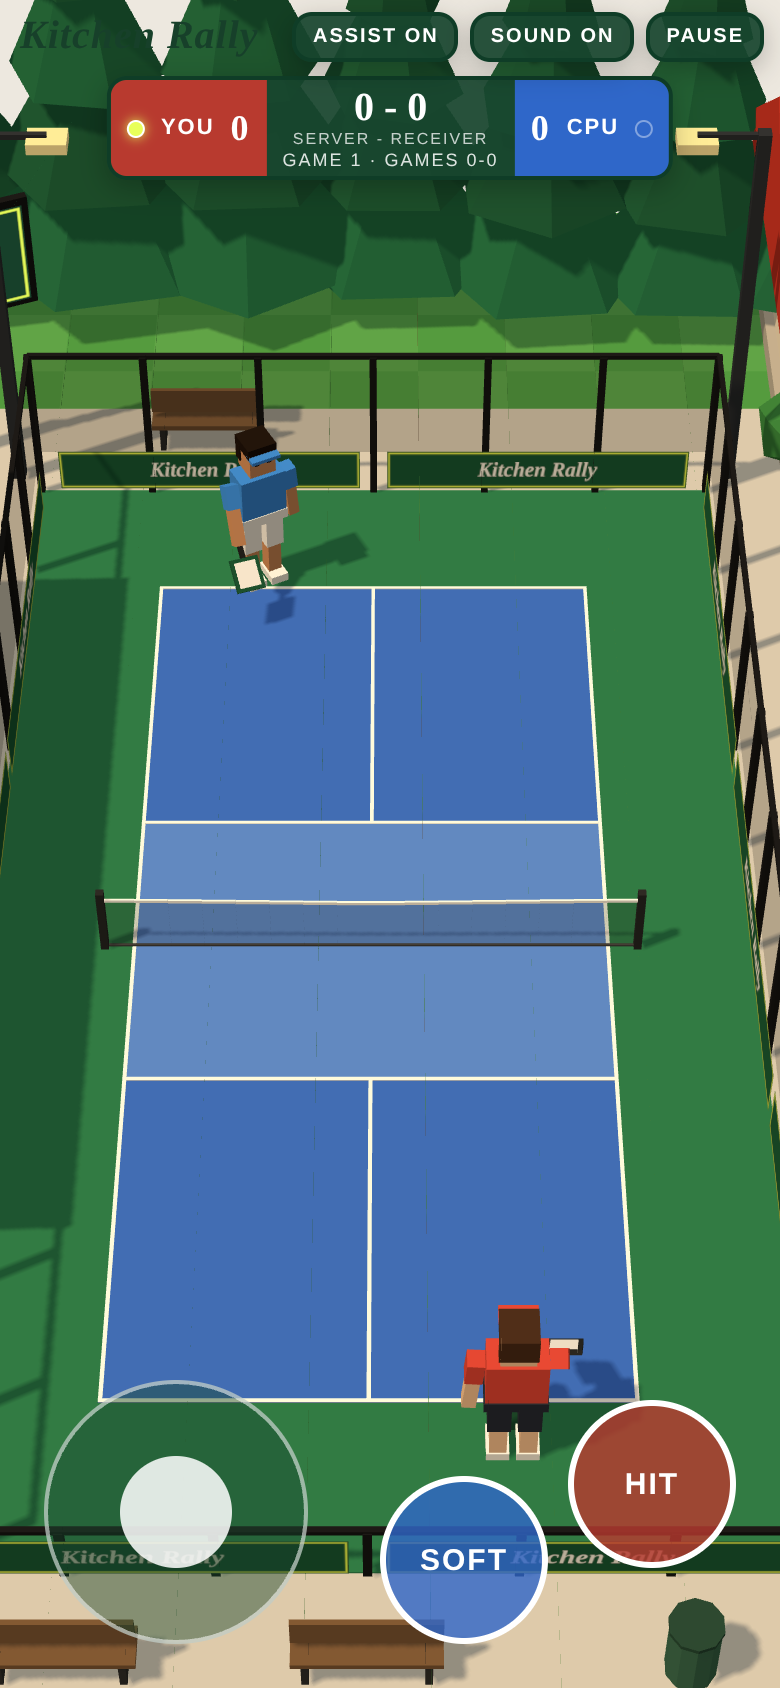
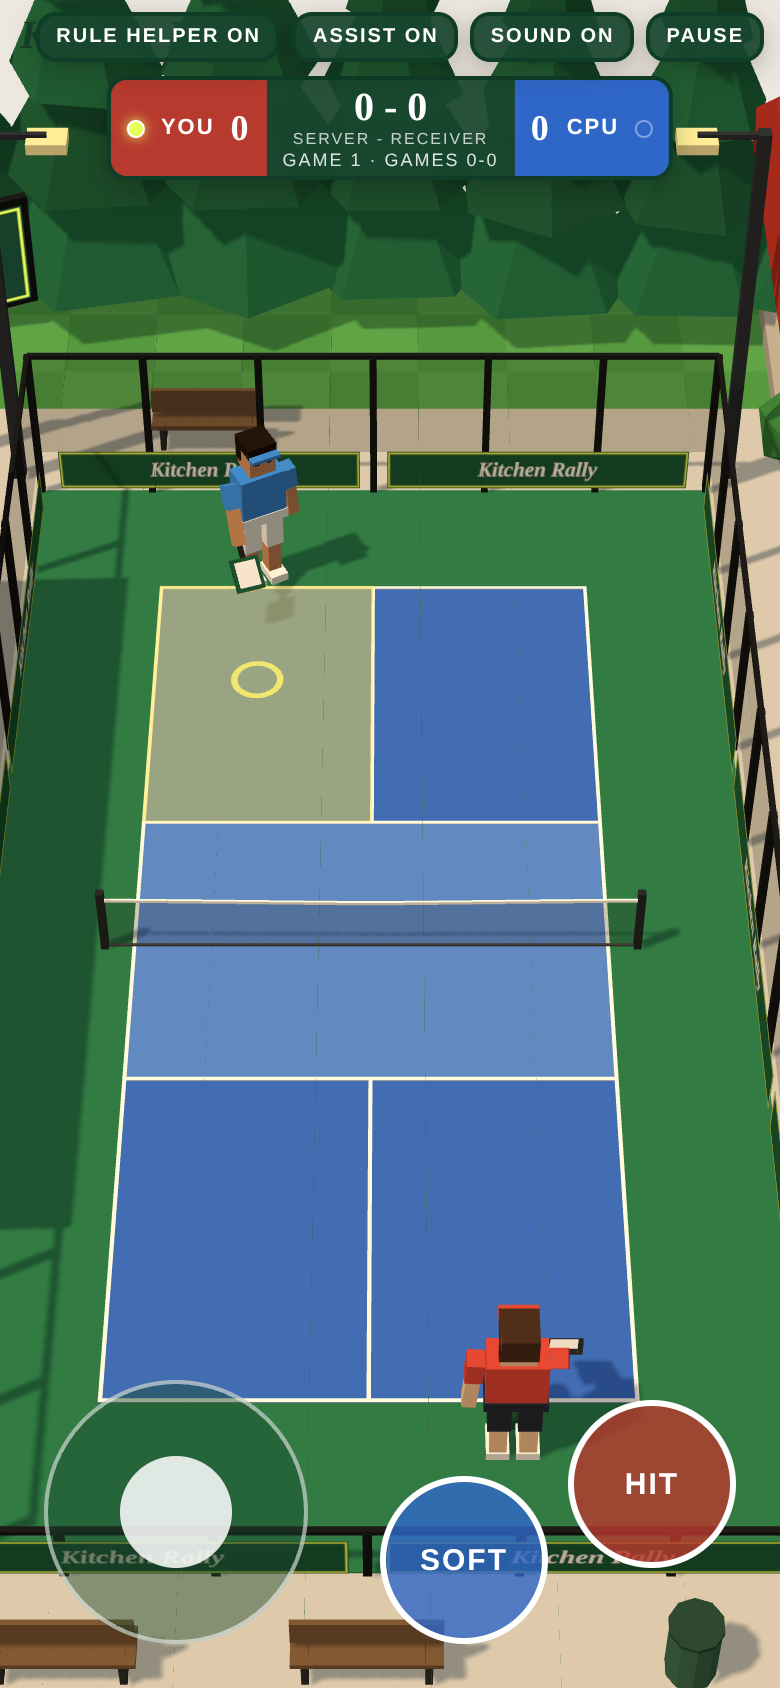
Fair rule faults: auto-swing/buffer never fault, rule helper, bounce/kitchen cues, fault reasons, safer serve and aim

Changed region(s): [[0.1846, 0.3389, 0.4923, 0.4929], [0.0308, 0.0, 0.3385, 0.0308]]

diff --git a/index.html b/index.html
@@ -26,8 +26,10 @@
   #games { font-size:clamp(9px,1.1vw,11px); letter-spacing:1px; opacity:.85; margin-top:1px; }
   #callout { position:fixed; left:50%; top:34%; transform:translate(-50%,-50%); text-align:center; pointer-events:none; opacity:0; }
   #callout .big { font-family:Georgia,serif; font-weight:700; font-style:italic; font-size:clamp(34px,8vw,84px); color:#fff; text-shadow:0 3px 0 #17402a,0 0 18px rgba(0,0,0,.35); letter-spacing:2px; }
-  #callout .sub { margin-top:4px; display:inline-block; padding:3px 12px; background:rgba(24,70,46,.9); border-radius:6px; font-size:clamp(11px,1.6vw,16px); letter-spacing:2px; text-transform:uppercase; }
-  #callout.show { animation:pop 1.5s ease-out forwards; }
+  #callout .sub { max-width:92vw; margin-top:4px; display:inline-block; padding:3px 12px; background:rgba(24,70,46,.9); border-radius:6px; font-size:clamp(11px,1.6vw,16px); letter-spacing:2px; text-transform:uppercase; }
+  #callout.show { animation:pop 1.9s ease-out forwards; }
+  #cue { position:fixed; left:0; top:0; transform:translate(-50%,-100%); padding:4px 12px; border-radius:8px; background:rgba(214,40,40,.94); color:#fff; font-weight:800; font-size:13px; letter-spacing:2px; pointer-events:none; display:none; white-space:nowrap; box-shadow:0 2px 8px rgba(0,0,0,.35); }
+  #cue.flash { background:#ff1f1f; font-size:16px; }
   @keyframes pop { 0%{opacity:0;transform:translate(-50%,-40%) scale(.6)} 12%{opacity:1;transform:translate(-50%,-50%) scale(1.08)} 22%{transform:translate(-50%,-50%) scale(1)} 80%{opacity:1} 100%{opacity:0;transform:translate(-50%,-56%) scale(1)} }
   #topRight { position:fixed; right:12px; top:12px; display:flex; gap:8px; }
   .chip { padding:7px 12px; font-size:12px; letter-spacing:1px; color:#fff; cursor:pointer; pointer-events:auto; font-weight:700; }
@@ -78,13 +80,15 @@
 </div>
 
 <div id="topRight">
+  <div class="chip panel" id="btnHelper">RULE HELPER ON</div>
   <div class="chip panel" id="btnAssist">ASSIST ON</div>
   <div class="chip panel" id="btnMute">SOUND ON</div>
   <div class="chip panel" id="btnPause">PAUSE</div>
 </div>
 
-<div id="hint" class="panel"><b>WASD / Arrows</b> move &nbsp; <b>J / Space</b> drive &nbsp; <b>K</b> dink / lob &nbsp; <b>Enter</b> pause &nbsp; <b>M</b> mute &nbsp; <b>T</b> assist &nbsp; <b>Wheel / pinch</b> zoom</div>
+<div id="hint" class="panel"><b>WASD / Arrows</b> move &nbsp; <b>J / Space</b> drive &nbsp; <b>K</b> dink / lob &nbsp; <b>Enter</b> pause &nbsp; <b>M</b> mute &nbsp; <b>T</b> assist &nbsp; <b>R</b> rule helper &nbsp; <b>Wheel / pinch</b> zoom</div>
 
+<div id="cue"></div>
 <div id="callout"><div class="big" id="coBig"></div><div class="sub" id="coSub"></div></div>
 
 <div id="scrTitle" class="screen"><div class="card panel">
@@ -171,8 +175,8 @@ class Rules {
   onHit(p, kitchen) {
     if (this.phase !== 'rally' || p === this.lastHitter) return null;
     const volley = this.bounces === 0;
-    if (volley && this.hits <= 2) return this.fault(p, 'FAULT', 'Two-bounce rule');
-    if (volley && kitchen) return this.fault(p, 'KITCHEN!', 'Volley in the kitchen');
+    if (volley && this.hits <= 2) return this.fault(p, 'FAULT', this.hits === 1 ? 'Two-bounce rule: let the serve bounce' : 'Two-bounce rule: let the return bounce');
+    if (volley && kitchen) return this.fault(p, 'KITCHEN!', 'Kitchen volley: no volleys inside the kitchen line');
     this.hits++; this.lastHitter = p; this.bounces = 0; this.netTouched = false;
     this.watch[0] = this.watch[1] = false;
     if (volley) this.watch[p] = true;
@@ -185,20 +189,20 @@ class Rules {
     this.bounces++; this.watch[0] = this.watch[1] = false;
     const side = Rules.sideOf(z);
     if (this.bounces === 1) {
-      if (Math.abs(x) > hw || Math.abs(z) > hl) return this.fault(this.lastHitter, 'OUT', 'Ball landed out');
-      if (side === this.lastHitter) return this.netTouched ? this.fault(this.lastHitter, 'NET', 'Ball hit the net')
-                                                           : this.fault(this.lastHitter, 'FAULT', 'Did not clear the net');
+      if (Math.abs(x) > hw || Math.abs(z) > hl) return this.fault(this.lastHitter, 'OUT', 'Out: the ball landed outside the court');
+      if (side === this.lastHitter) return this.netTouched ? this.fault(this.lastHitter, 'NET', 'Net: the ball hit the net')
+                                                           : this.fault(this.lastHitter, 'FAULT', 'Net: the ball did not clear the net');
       if (this.hits === 1) {
-        if (Math.abs(z) <= c.kitchen) return this.fault(this.lastHitter, 'FAULT', 'Serve landed in the kitchen');
-        if (x * this.receiveCourtSign() < 0) return this.fault(this.lastHitter, 'FAULT', 'Serve landed in the wrong court');
+        if (Math.abs(z) <= c.kitchen) return this.fault(this.lastHitter, 'FAULT', 'Serve in kitchen: the serve must land past the kitchen');
+        if (x * this.receiveCourtSign() < 0) return this.fault(this.lastHitter, 'FAULT', 'Serve landed in the wrong service box');
       }
       return null;
     }
-    return this.fault(1 - this.lastHitter, 'FAULT', 'Double bounce');
+    return this.fault(1 - this.lastHitter, 'FAULT', 'Double bounce: the ball bounced twice');
   }
   // stepping into the kitchen after a volley, before the ball bounces
   momentum(p, kitchen) {
-    if (this.phase === 'rally' && this.watch[p] && kitchen) return this.fault(p, 'KITCHEN!', 'Stepped in after a volley');
+    if (this.phase === 'rally' && this.watch[p] && kitchen) return this.fault(p, 'KITCHEN!', 'Kitchen: do not step in after a volley');
     return null;
   }
   fault(faulter, label, detail) {
@@ -359,6 +363,7 @@ class Input {
       else if (e.code === 'Enter') this.fire('enter');
       else if (e.code === 'KeyM') this.fire('mute');
       else if (e.code === 'KeyT') this.fire('assist');
+      else if (e.code === 'KeyR') this.fire('helper');
       else if (e.code === 'KeyQ') this.fire('quit');
       else if (e.code === 'Escape') this.fire('pause');
     });
@@ -938,8 +943,17 @@ class Game {
     const rm = new THREE.MeshBasicMaterial({ color: 0xfff36b, transparent: true, opacity: 0.85, depthWrite: false, polygonOffset: true, polygonOffsetFactor: -4, polygonOffsetUnits: -4, side: THREE.DoubleSide });
     this.ring = new THREE.Mesh(new THREE.RingGeometry(0.3, 0.4, 28).rotateX(-Math.PI / 2), rm); this.ring.renderOrder = 6; this.ring.visible = false; this.scene.add(this.ring);
 
+    const mkPlane = (w, d, color, op) => { const m = new THREE.Mesh(new THREE.PlaneGeometry(w, d).rotateX(-Math.PI / 2), new THREE.MeshBasicMaterial({ color, transparent: true, opacity: op, depthWrite: false, polygonOffset: true, polygonOffsetFactor: -3, polygonOffsetUnits: -3 })); m.renderOrder = 4; m.visible = false; this.scene.add(m); return m; };
+    const CT = CONFIG.court;
+    this.kitchenHi = mkPlane(CT.width, CT.kitchen, 0xff3b30, 0.35); this.kitchenHi.position.set(0, 0.03, CT.kitchen / 2);
+    this.serveHi = mkPlane(CT.width / 2, CT.length / 2 - CT.kitchen, 0xffe14a, 0.4);
+    const brm = new THREE.MeshBasicMaterial({ color: 0xff2020, transparent: true, opacity: 0.9, depthWrite: false, polygonOffset: true, polygonOffsetFactor: -5, polygonOffsetUnits: -5, side: THREE.DoubleSide });
+    this.bounceRing = new THREE.Mesh(new THREE.RingGeometry(0.3, 0.42, 28).rotateX(-Math.PI / 2), brm); this.bounceRing.renderOrder = 7; this.bounceRing.visible = false; this.scene.add(this.bounceRing);
+    this.cueEl = $('cue'); this.cueFlash = 0; this.pv = new THREE.Vector3();
+    this.helper = true; this.strikeSrc = 'fresh'; // rule helper: blocks an illegal manual volley instead of faulting (R toggles)
+
     this.diff = 'normal'; this.state = 'title'; this.prev = 'serve'; this.time = 0; this.stateT = 0; this.acc = 0; this.cheerT = 0; this.cheerAt = -1;
-    this.buf = { t: 0, age: 0, kind: 'hit', swung: false }; this.serve = { pending: false, t: 0, soft: false };
+    this.buf = { t: 0, age: 0, kind: 'hit', swung: false, fresh: false, warned: false }; this.serve = { pending: false, t: 0, soft: false };
     this.callouts = []; this.pending = null; this.startPos = [{ x: 0, z: 0 }, { x: 0, z: 0 }];
     this.tw = [0, 0]; this.sol = {}; this.tmpSim = {}; this.tmpSol = {};
     this.ctl = [null, new AIController(this, this.players[1], this.diff)];
@@ -971,10 +985,12 @@ class Game {
     $('btnAgain').addEventListener('click', (e) => { e.stopPropagation(); this.onAction('enter'); });
     $('btnMute').addEventListener('click', () => this.onAction('mute'));
     $('btnAssist').addEventListener('click', () => this.onAction('assist'));
+    $('btnHelper').addEventListener('click', () => this.onAction('helper'));
     $('btnPause').addEventListener('click', () => this.onAction('pause'));
   }
+  setHelper(on) { this.helper = on; $('btnHelper').textContent = on ? 'RULE HELPER ON' : 'RULE HELPER OFF'; }
   setDiff(d) {
-    this.diff = d; this.ctl[1].setDiff(d); if (this.ctl[0]) this.ctl[0].setDiff('hard');
+    this.diff = d; this.setHelper(d !== 'hard'); this.ctl[1].setDiff(d); if (this.ctl[0]) this.ctl[0].setDiff('hard');
     for (const b of document.querySelectorAll('#diffs .btn')) b.classList.toggle('sel', b.dataset.d === d);
     this.audio.sfx('blip');
   }
@@ -989,6 +1005,7 @@ class Game {
     switch (n) {
       case 'touch': document.body.classList.add('touch'); break;
       case 'mute': this.audio.setMuted(!this.audio.muted); $('btnMute').textContent = this.audio.muted ? 'SOUND OFF' : 'SOUND ON'; this.audio.sfx('blip'); break;
+      case 'helper': this.setHelper(!this.helper); this.audio.sfx('blip'); break;
       case 'assist': this.assist = !this.assist; $('btnAssist').textContent = this.assist ? 'ASSIST ON' : 'ASSIST OFF'; this.audio.sfx('blip'); break;
       case 'left': case 'right':
         if (S === 'title') { const L = ['easy', 'normal', 'hard'], i = L.indexOf(this.diff); this.setDiff(L[clamp(i + (n === 'left' ? -1 : 1), 0, 2)]); }
@@ -1005,7 +1022,7 @@ class Game {
         if (S === 'title' || S === 'howto' || S === 'end') { this.onAction('enter'); break; }
         if (S === 'paused' || this.ctl[0]) break;
         if (S === 'serve') { if (this.rules.server === 0 && !this.serve.pending) this.beginServe(this.players[0], n === 'soft'); }
-        else if (S === 'rally') { this.buf.t = CONFIG.input.bufferMs / 1000; this.buf.age = 0; this.buf.kind = n; this.buf.swung = false; }
+        else if (S === 'rally') { this.buf.t = CONFIG.input.bufferMs / 1000; this.buf.age = 0; this.buf.kind = n; this.buf.swung = false; this.buf.warned = false; this.buf.fresh = this.canHit(this.players[0]); }
         break;
     }
   }
@@ -1044,14 +1061,18 @@ class Game {
     let spec;
     if (this.ctl[p.id]) spec = this.ctl[p.id].serveSpec();
     else {
-      this.input.world(this.tw); const up = -this.tw[1], s = r.receiveCourtSign();
-      spec = { type: this.serve.soft ? 'servesoft' : 'serve', tx: s * clamp(s * (s * 1.6 + 1.1 * this.tw[0]), 0.3, 2.85), tz: lerp(2.5, 6.3, 0.5 + 0.5 * up), sd0: 0.16 };
+      spec = this.humanServeSpec();
     }
     p.hitCD = CONFIG.player.hitCooldown;
     r.onServe(); b.live = true; this.shoot(p, spec, spec.sd0 * 0.7);
     this.setState('rally'); this.acc = 0;
     this.audio.sfx('pock');
     const o = this.ctl[1 - p.id]; if (o) o.onOpponentHit();
+  }
+  // human serve aim: safely past the kitchen by default (centre of the service box), direction keys nudge it
+  humanServeSpec(soft = this.serve.soft) {
+    this.input.world(this.tw); const up = -this.tw[1], s = this.rules.receiveCourtSign();
+    return { type: soft ? 'servesoft' : 'serve', tx: s * clamp(1.6 + 1.1 * s * this.tw[0], 0.7, 2.5), tz: lerp(3.6, 6.0, 0.5 + 0.5 * up), sd0: 0.16 };
   }
   canHit(p) {
     const b = this.ball, P = CONFIG.player;
@@ -1076,10 +1097,11 @@ class Game {
     const t = clamp(((p.z - b.z) * p.sz) / P.reach, -1, 1); // + when the ball is ahead of the player (toward the net) = early contact
     const side = (b.x - p.x) >= 0 ? 1 : -1;
     let type, tz;
-    if (kind === 'hit') { type = 'drive'; tz = lerp(3.0, 6.4, d); }
+    if (kind === 'hit') { type = 'drive'; tz = lerp(3.0, 5.9, d); }
     else if (Math.abs(p.z) <= S.dinkMaxZ) { type = 'dink'; tz = lerp(0.7, 1.95, d); }
-    else { type = 'lob'; tz = lerp(4.8, 6.4, d); }
-    return { type, tx: dx * 2.0 + t * S.timingSkew * side, tz, sd0: 0.2 };
+    else { type = 'lob'; tz = lerp(4.8, 5.9, d); }
+    // aim stays inside the sidelines even with full direction + early contact, so auto-aim never throws the ball out by itself
+    return { type, tx: clamp(dx * 2.0 + t * S.timingSkew * side, -2.6, 2.6), tz, sd0: 0.2 };
   }
   // compute and apply the launch velocity for a shot (auto-aim). sd = random error std dev in metres
   shoot(p, spec, sd) {
@@ -1091,9 +1113,9 @@ class Game {
     if (spec.arc && (spec.type === 'drive' || spec.type === 'serve')) T *= 1 + spec.arc; // extra loft so incoming balls stay returnable
     T = Math.max(T, 0.5);
     let sol = this.sol;
-    for (let i = 0; i < 9; i++) {
+    for (let i = 0; i < 16; i++) {
       solveShot(CONFIG, b.x, b.y, b.z, tx, tzw, T, sol, this.tmpSol);
-      if (sol.crossed && sol.netY >= C.netSide + S.netClear) break; T *= 1.1;
+      if (sol.crossed && sol.netY >= C.netSide + S.netClear) break; T *= 1.12;
     }
     b.vx = sol.vx; b.vy = sol.vy; b.vz = sol.vz;
     simFlight(CONFIG, b.x, b.y, b.z, b.vx, b.vy, b.vz, this.tmpSim);
@@ -1113,7 +1135,7 @@ class Game {
   handleFault(ev) {
     this.ring.visible = false; this.audio.sfx('fault');
     this.callouts.length = 0;
-    this.queueCallout(ev.label, ev.detail, 0);
+    this.queueCallout(ev.label, (ev.faulter === 0 ? 'You: ' : 'CPU: ') + ev.detail, 0);
     let d = 1.15;
     const nm = (i) => (i === 0 ? 'YOU' : 'CPU');
     if (ev.sideOut) { this.queueCallout('SIDE OUT', nm(this.rules.server) + ' to serve', d); d += 1.0; }
@@ -1138,6 +1160,8 @@ class Game {
     const P = CONFIG.player, r = this.rules, hl = CONFIG.court.length / 2;
     p.xMin = -P.boundX; p.xMax = P.boundX;
     if (p.sz > 0) { p.zMin = P.netGap; p.zMax = P.boundZ; } else { p.zMin = -P.boundZ; p.zMax = -P.netGap; }
+    // right after a volley near the kitchen, do not let momentum or assist carry the player into it (auto volleys and rule helper)
+    if (p.id === 0 && !this.ctl[0] && r.phase === 'rally' && r.watch[0] && (this.helper || this.strikeSrc !== 'fresh')) p.zMin = Math.max(p.zMin, CONFIG.court.kitchen + P.footRadius + 0.03);
     if (this.state === 'serve' && r.server === p.id) {
       const s = r.serveCourtSign(); // stay inside the serving court, behind the baseline
       if (s > 0) { p.xMin = 0.2; p.xMax = 3.0; } else { p.xMin = -3.0; p.xMax = -0.2; }
@@ -1174,13 +1198,15 @@ class Game {
     if (this.state === 'rally') {
       if (!this.ctl[0] && this.buf.t > 0) {
         this.buf.t -= dt; this.buf.age += dt;
-        // forgiving buffer: a press made well before the ball is in reach waits for a legal contact (after the bounce);
-        // a deliberate press right at contact still fires, so real two-bounce / kitchen faults can happen
-        if (this.canHit(h) && (this.humanLegal(h) || this.buf.age < CONFIG.input.illegalGraceMs / 1000)) this.strike(h, this.humanSpec(this.buf.kind));
-        else if (this.canHit(h)) { /* wait for legal contact */ }
-        else if (!this.buf.swung && h.swingT < 0 && h.hitCD <= 0) { h.startSwing((this.ball.x - h.x) < 0 ? 'bh' : 'fh', 0); h.hitCD = 0.18; this.buf.swung = true; }
+        // a buffered press never commits a rule fault by itself: it waits for a legal contact (after the bounce / outside the kitchen).
+        // only an explicit press made with the ball already in reach (fresh) can still fault, unless the rule helper blocks it
+        if (this.canHit(h)) {
+          if (this.humanLegal(h)) { this.strikeSrc = this.buf.age > 0.0801 ? 'buffer' : 'fresh'; this.strike(h, this.humanSpec(this.buf.kind)); }
+          else if (!this.helper && this.buf.age < CONFIG.input.illegalGraceMs / 1000) { this.strikeSrc = 'fresh'; this.strike(h, this.humanSpec(this.buf.kind)); }
+          else if (!this.buf.warned) { this.buf.warned = true; this.cueFlash = 0.6; }
+        } else if (!this.buf.swung && h.swingT < 0 && h.hitCD <= 0) { h.startSwing((this.ball.x - h.x) < 0 ? 'bh' : 'fh', 0); h.hitCD = 0.18; this.buf.swung = true; }
       } else if (!this.ctl[0] && (this.input.held.hit || this.input.held.soft) && this.canHit(h) && this.humanLegal(h)) {
-        this.strike(h, this.humanSpec(this.input.held.hit ? 'hit' : 'soft')); // hit held: auto-swing when a legal ball enters reach
+        this.strikeSrc = 'held'; this.strike(h, this.humanSpec(this.input.held.hit ? 'hit' : 'soft')); // hit held: auto-swing when a legal ball enters reach
       }
     }
     if (this.state === 'rally' || this.state === 'pointover') {
@@ -1206,8 +1232,38 @@ class Game {
     this.ballMesh.position.set(b.x, b.y + 0.11, b.z); this.ballMesh.rotation.x += dt * 5; this.ballMesh.rotation.z += dt * 3;
     const s = 0.17 + 0.05 * Math.min(h, 3); this.blob.position.set(b.x, 0.03, b.z); this.blob.scale.set(s, 1, s); this.blob.material.opacity = 0.55 / (1 + 0.25 * h);
     if (this.ring.visible) { const k = 1 + 0.12 * Math.sin(this.time * 9); this.ring.scale.set(k, 1, k); }
+    this.syncCues(dt);
     const lookX = b.x;
     for (const p of this.players) p.animate(dt, lookX);
+  }
+  syncCues(dt) {
+    const r = this.rules, h = this.players[0], b = this.ball, C = CONFIG.court, S = this.state, human = !this.ctl[0];
+    const rally = S === 'rally' && r.phase === 'rally' && human;
+    const incoming = rally && r.lastHitter === 1;
+    const needB = incoming && r.bounces === 0 && r.hits <= 2;
+    const inK = r.inKitchen(h.x, h.z);
+    const kcue = rally && r.bounces === 0 && ((incoming && inK) || (r.watch[0] && h.z < C.kitchen + CONFIG.player.footRadius + 0.45));
+    this.bounceRing.visible = needB;
+    if (needB) { const k = 1 + 0.15 * Math.sin(this.time * 10); this.bounceRing.position.set(b.x, 0.04, b.z); this.bounceRing.scale.set(k, 1, k); }
+    this.kitchenHi.visible = kcue; if (kcue) this.kitchenHi.material.opacity = 0.3 + 0.15 * Math.sin(this.time * 9);
+    // serve target: highlight the service box and show the aim point while the human serves
+    const sv = S === 'serve' && r.server === 0 && human;
+    this.serveHi.visible = sv;
+    if (sv) {
+      const s = r.receiveCourtSign(), sp = this.humanServeSpec(this.serve.soft || this.input.held.soft);
+      this.serveHi.position.set(s * C.width / 4, 0.03, -(C.kitchen + (C.length / 2 - C.kitchen) / 2));
+      this.serveHi.material.opacity = 0.4 + 0.12 * Math.sin(this.time * 6);
+      if (!this.serve.pending) { this.ring.position.set(sp.tx, 0.035, -sp.tz); this.ring.visible = true; }
+    }
+    const el = this.cueEl; let txt = '', tgt = null;
+    if (needB) { txt = 'LET IT BOUNCE'; this.pv.set(b.x, b.y + 0.5, b.z); tgt = this.pv; }
+    else if (kcue) { txt = 'NO VOLLEY IN THE KITCHEN'; this.pv.set(h.x, 2.5, h.z); tgt = this.pv; }
+    if (this.cueFlash > 0) this.cueFlash -= dt;
+    if (txt && this.state !== 'paused') {
+      this.pv.project(this.rig.cam);
+      el.style.display = 'block'; el.textContent = txt; el.classList.toggle('flash', this.cueFlash > 0);
+      el.style.left = Math.round((this.pv.x * 0.5 + 0.5) * innerWidth) + 'px'; el.style.top = Math.round((-this.pv.y * 0.5 + 0.5) * innerHeight) + 'px';
+    } else el.style.display = 'none';
   }
   render() { this.renderer.render(this.scene, this.rig.cam); }
   // ------------------------------------------------ test helpers (headless): advance game time without rendering

diff --git a/tests/rules.test.js b/tests/rules.test.js
@@ -61,4 +61,10 @@ const C=CONFIG.court;
   const b3=new Ball(CONFIG); b3.x=0;b3.y=1.2;b3.z=0.5;b3.vx=0;b3.vy=0;b3.vz=-5; let bn=0; for(let i=0;i<300;i++){b3.step(1/120); if(b3.bounceEv)bn++;}
   t('ball bounces with restitution (bounce events happen)',bn>=1);
   const b4=new Ball(CONFIG); b4.y=2;b4.x=1;b4.z=3; let ys=[]; for(let i=0;i<400;i++){b4.step(1/120); if(b4.bounceEv)ys.push(b4.vy);} t('restitution ~0.6',ys.length>1&&ys[0]>0&&true,JSON.stringify(ys)); }
+  // fault reasons shown to the player
+  { const r=new Rules(CONFIG); r.onServe(); let ev=r.onHit(1,false); t('volleying the serve: reason says let the serve bounce', ev&&/let the serve bounce/.test(ev.detail),ev&&ev.detail);
+    const r2=new Rules(CONFIG); r2.onServe(); r2.onBounce(-1,-4); r2.onHit(1,false); r2.bounces=0; ev=r2.onHit(0,false); t('server volleying the return (3rd shot): let the return bounce', ev&&/let the return bounce/.test(ev.detail),ev&&ev.detail);
+    const r3=new Rules(CONFIG); r3.onServe(); r3.onBounce(-1,-4); r3.onHit(1,false); r3.onBounce(1,3); r3.onHit(0,false); ev=r3.onHit(1,true); t('kitchen volley reason',ev&&/Kitchen volley/.test(ev.detail),ev&&ev.detail);
+    const r4=new Rules(CONFIG); r4.onServe(); ev=r4.onBounce(-1,-1.0); t('serve in kitchen reason',ev&&/Serve in kitchen/.test(ev.detail),ev&&ev.detail);
+    const r5=new Rules(CONFIG); r5.onServe(); ev=r5.onBounce(0,-9); t('out reason',ev&&/^Out/.test(ev.detail)); }
 console.log(`\n${pass} passed, ${fail} failed`); process.exit(fail?1:0);
